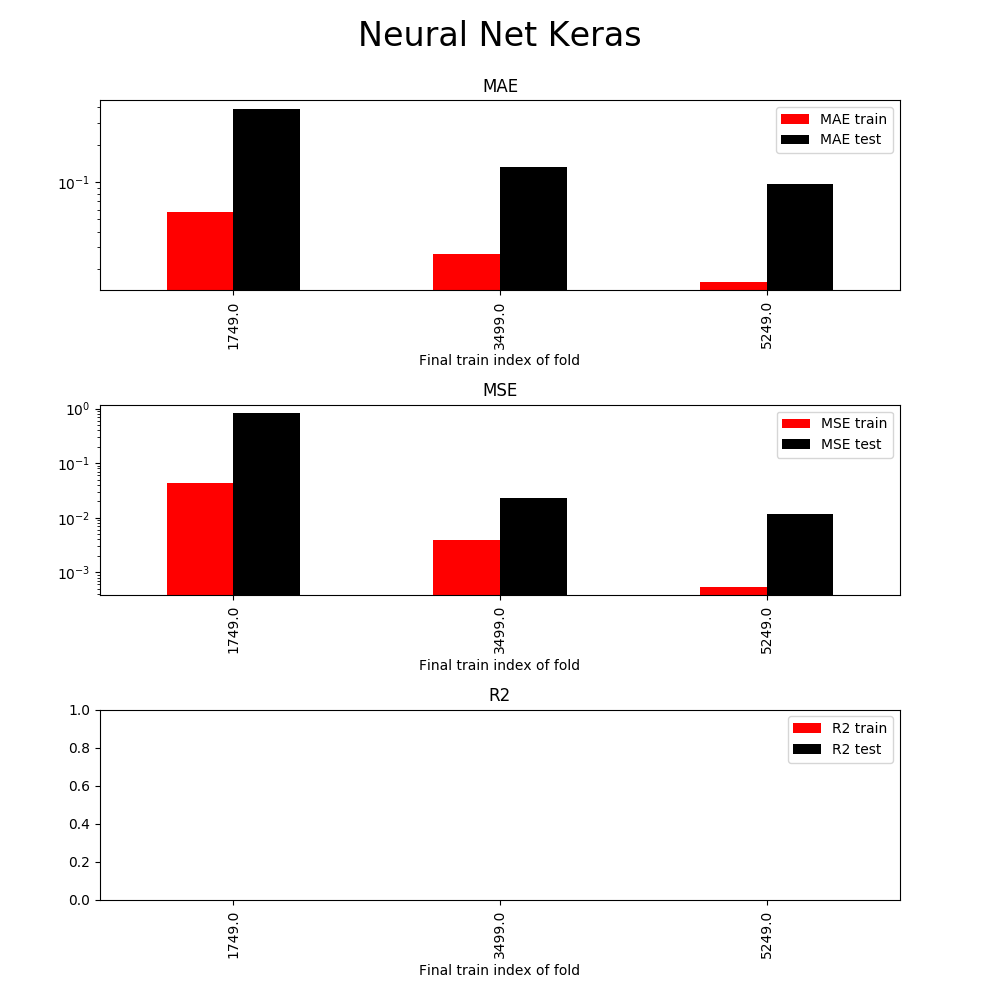
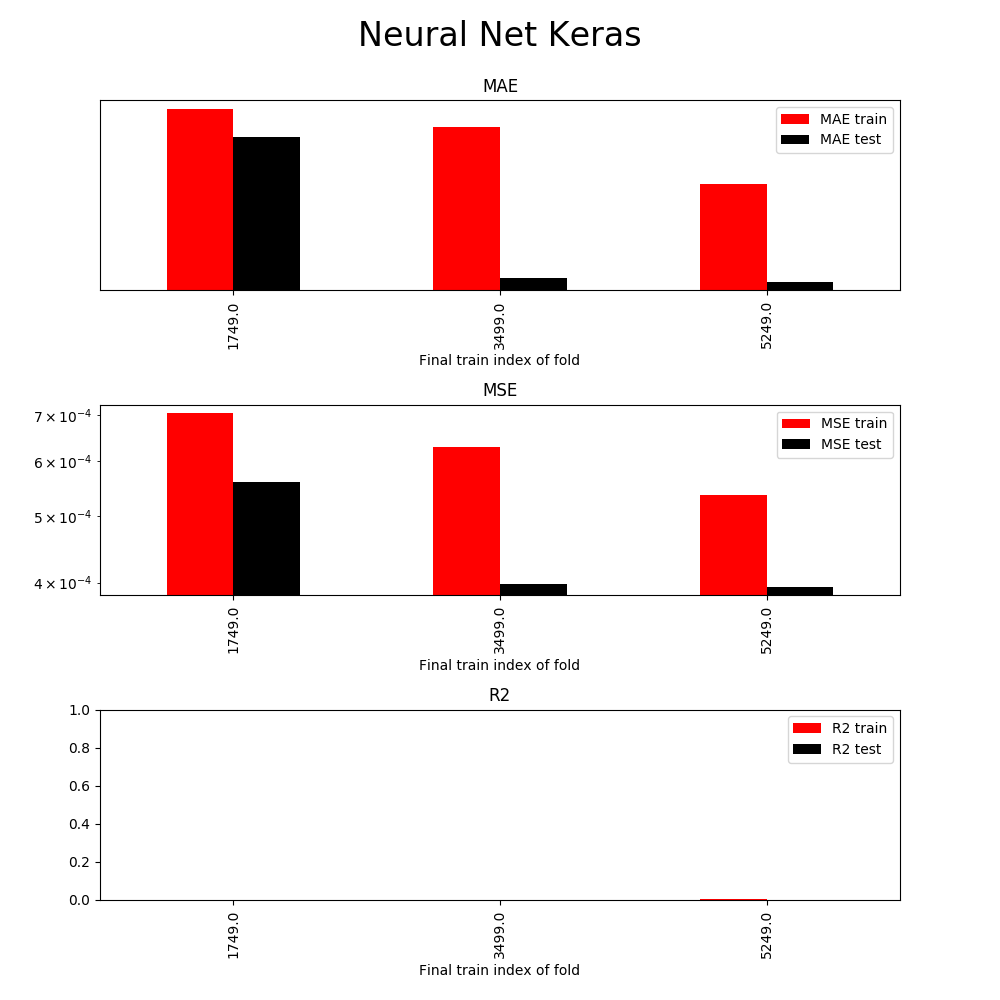
feat: grid search

diff --git a/ml-training/neural_net_keras.py b/ml-training/neural_net_keras.py
@@ -1,9 +1,14 @@
+import matplotlib.pyplot as plt
 import numpy as np
 import pandas as pd
 from keras.models import Sequential
 from keras.layers import Dense
+from keras.wrappers.scikit_learn import KerasRegressor
+from matplotlib import cm
 from numpy.random import seed
+from pandas.plotting import scatter_matrix
 from sklearn.preprocessing import PolynomialFeatures
+from sklearn.model_selection import GridSearchCV
 from tensorflow import set_random_seed
 
 from training import performance
@@ -18,17 +23,12 @@ def main(X: np.ndarray, y: np.ndarray, tscv_idx) -> None:
     Args:
         X: numpy.ndarray
         y: numpy.ndarray
-        tscv_idx: list of numpy.ndarray
+        tscv_idx: generator of indexes used for training and testing in folds
     Returns:
         None
     """
     X = PolynomialFeatures(degree=2).fit(X).transform(X)
-    model = Sequential()
-    input_size = len(X[0])
-    model.add(Dense(200, activation="relu", input_dim=input_size))
-    model.add(Dense(200, activation="relu"))
-    model.add(Dense(1, activation="linear"))
-    model.compile(optimizer="adam", loss="mse")
+    model = build_model(input_size=len(X[0]), optimizer="RMSprop", activation="softmax", neurons=200)
     results = pd.DataFrame(columns=["final_train_idx", "MAE train", "MSE train", 
         "R2 train", "MAE test", "MSE test", "R2 test"])
     for train_idx, test_idx in tscv_idx:
@@ -36,7 +36,7 @@ def main(X: np.ndarray, y: np.ndarray, tscv_idx) -> None:
         y_train = y[train_idx,:]
         X_test = X[test_idx,:]
         y_test = y[test_idx,:]
-        model.fit(X_train, y_train, epochs=25, verbose=1)
+        model.fit(X_train, y_train, epochs=10, batch_size=20, verbose=1)
         # params = model.get_params()
         # coef = model.coef_
         y_pred = model.predict(X_train)
@@ -47,25 +47,51 @@ def main(X: np.ndarray, y: np.ndarray, tscv_idx) -> None:
             mae_test, mse_test, r2_test]
     plot_performance(results, "Neural Net Keras", "neural_keras")
 
-def test_keras():
-    # example of training a final regression model
-    from keras.models import Sequential
-    from keras.layers import Dense
-    from sklearn.datasets import make_regression
-    from sklearn.preprocessing import MinMaxScaler
-    # generate regression dataset
-    X, y = make_regression(n_samples=100, n_features=2, noise=0.1, random_state=1)
-    scalarX, scalarY = MinMaxScaler(), MinMaxScaler()
-    scalarX.fit(X)
-    scalarY.fit(y.reshape(100,1))
-    X = scalarX.transform(X)
-    y = scalarY.transform(y.reshape(100,1))
-    print(X.shape)
-    print(y.shape)
-    # define and fit the final model
+def grid_search(X: np.ndarray, y: np.ndarray, tscv_idx):
+    """
+    Train linear Decision Tree Regressor model and save the plot of results to images/
+    Args:
+        X: numpy.ndarray
+        y: numpy.ndarray
+        tscv_idx: generator
+    Returns:
+        None
+    """
+    X = PolynomialFeatures(degree=2).fit(X).transform(X)
+    model = KerasRegressor(build_fn=build_model, verbose=0)
+    batch_size = [10, 20]
+    epochs = [10, 15]
+    optimizer = ["RMSprop", "Adam"]
+    activation = ["softmax", "relu", "tanh"]
+    neurons = [10, 50, 200]
+    param_grid = dict(batch_size=batch_size, epochs=epochs, optimizer=optimizer,
+        activation=activation, neurons=neurons)
+    grid = GridSearchCV(estimator=model, param_grid=param_grid, cv=tscv_idx)
+    grid_result = grid.fit(X, y, verbose=1)
+    means = grid_result.cv_results_["mean_test_score"]
+    params = grid_result.cv_results_["params"]
+    results = pd.DataFrame(columns=["batch_size", "epochs", "optimizer", 
+        "activation", "neurons", "mse"])
+    for mean, param in zip(means, params):
+        results.loc[len(results)] = [param["batch_size"], param["epochs"], 
+            param["optimizer"], param["activation"], param["neurons"], mean]
+    print(results)
+    print("Best score: {} using {}".format(grid_result.best_score_, grid_result.best_params_))
+    
+def build_model(input_size=171, optimizer="adam", activation="relu", neurons=200):
+    """
+    Train linear Decision Tree Regressor model and save the plot of results to images/
+    Args:
+        input_size: number of neurons in the first layer
+        optimizer: model compilation optimizer
+        activation: layer activation function
+        neurons: number of neurons in each layer
+    Returns:
+        Sequential model
+    """
     model = Sequential()
-    model.add(Dense(4, input_dim=2, activation='relu'))
-    model.add(Dense(4, activation='relu'))
-    model.add(Dense(1, activation='linear'))
-    model.compile(loss='mse', optimizer='adam')
-    model.fit(X, y, epochs=1000, verbose=0)
+    model.add(Dense(neurons, activation=activation, input_dim=input_size))
+    model.add(Dense(neurons, activation=activation))
+    model.add(Dense(1, activation="linear"))
+    model.compile(optimizer=optimizer, loss="mse")
+    return model

diff --git a/ml-training/decision_tree.py b/ml-training/decision_tree.py
@@ -1,6 +1,7 @@
 import numpy as np
 import pandas as pd
 from sklearn import tree
+from sklearn.model_selection import GridSearchCV
 from sklearn.preprocessing import PolynomialFeatures
 
 from training import performance
@@ -12,11 +13,12 @@ def main(X: np.ndarray, y: np.ndarray, tscv_idx) -> None:
     Args:
         X: numpy.ndarray
         y: numpy.ndarray
-        tscv_idx: list of numpy.ndarray
+        tscv_idx: generator
     Returns:
         None
     """
-    model = tree.DecisionTreeRegressor(max_depth=10)
+    model = tree.DecisionTreeRegressor(splitter="best", max_depth=3,
+        min_samples_split=5, max_leaf_nodes=None, random_state=1)
     results = pd.DataFrame(columns=["final_train_idx", "MAE train", "MSE train", 
         "R2 train", "MAE test", "MSE test", "R2 test"])
     for train_idx, test_idx in tscv_idx:
@@ -36,3 +38,36 @@ def main(X: np.ndarray, y: np.ndarray, tscv_idx) -> None:
         results.loc[len(results)] = [train_idx[-1], mae_train, mse_train, r2_train,
             mae_test, mse_test, r2_test]
     plot_performance(results, "Decision Tree", "tree")
+
+def grid_search(X: np.ndarray, y: np.ndarray, tscv_idx):
+    """
+    Train linear Decision Tree Regressor model and save the plot of results to images/
+    Args:
+        X: numpy.ndarray
+        y: numpy.ndarray
+        tscv_idx: generator
+    Returns:
+        None
+    """
+    X = PolynomialFeatures(degree=2).fit(X).transform(X)
+    model = tree.DecisionTreeRegressor(splitter="best", max_depth=10,
+        min_samples_split=2, max_leaf_nodes=None, random_state=2)
+    splitter = ["best", "random"]
+    max_depth = [3, 4, 5, 6]
+    min_samples_split = [5, 7, 10, 12, 15]
+    max_leaf_nodes = [None, 50, 100, 200]
+    param_grid = dict(splitter=splitter, max_depth=max_depth, 
+        min_samples_split=min_samples_split, max_leaf_nodes=max_leaf_nodes)
+    grid = GridSearchCV(estimator=model, param_grid=param_grid, cv=tscv_idx)
+    grid_result = grid.fit(X, y)
+    means = grid_result.cv_results_["mean_test_score"]
+    params = grid_result.cv_results_["params"]
+    results = pd.DataFrame(columns=["splitter", "max_depth", 
+        "min_samples_split", "max_leaf_nodes", "mse"])
+    for mean, param in zip(means, params):
+        row = [param["splitter"], param["max_depth"], 
+            param["min_samples_split"], param["max_leaf_nodes"], mean]
+        results.loc[len(results)] = row
+        print(row)
+    print(results)
+    print("Best score: {} using {}".format(grid_result.best_score_, grid_result.best_params_))

diff --git a/ml-training/training.py b/ml-training/training.py
@@ -20,14 +20,16 @@ def training():
     X = X.values # convert to numpy.ndarray used by sklearn
     y = y.values # convert to numpy.ndarray used by sklearn
     tscv = TimeSeriesSplit(n_splits=3)
-    # import linear_regression as lin_reg
-    # lin_reg.main(X, y, tscv.split(X))
-    # import decision_tree as dtree
-    # dtree.main(X, y, tscv.split(X))
-    # import neural_net_scikit as nn_scikit
+    import linear_regression as lin_reg
+    lin_reg.main(X, y, tscv.split(X))
+    import decision_tree as dtree
+    dtree.main(X, y, tscv.split(X))
+    dtree.grid_search(X, y, tscv.split(X))
+    import neural_net_scikit as nn_scikit
     # nn_scikit.main(X, y, tscv.split(X))
     import neural_net_keras as nn_keras
     nn_keras.main(X, y, tscv.split(X))
+    # nn_keras.grid_search(X, y, tscv.split(X))
 
 def training_data_from_csv(filename_features, filename_variables):
     """

diff --git a/ml-training/linear_regression.py b/ml-training/linear_regression.py
@@ -12,7 +12,7 @@ def main(X: np.ndarray, y: np.ndarray, tscv_idx) -> None:
     Args:
         X: features
         y: target variables
-        tscv_idx: generator of indeces used for training and testing in folds
+        tscv_idx: generator of indexes used for training and testing in folds
     Returns:
         None
     """

diff --git a/ml-training/neural_net_scikit.py b/ml-training/neural_net_scikit.py
@@ -12,7 +12,7 @@ def main(X: np.ndarray, y: np.ndarray, tscv_idx) -> None:
     Args:
         X: numpy.ndarray
         y: numpy.ndarray
-        tscv_idx: list of numpy.ndarray
+        tscv_idx: generator of indexes used for training and testing in folds
     Returns:
         None
     """
